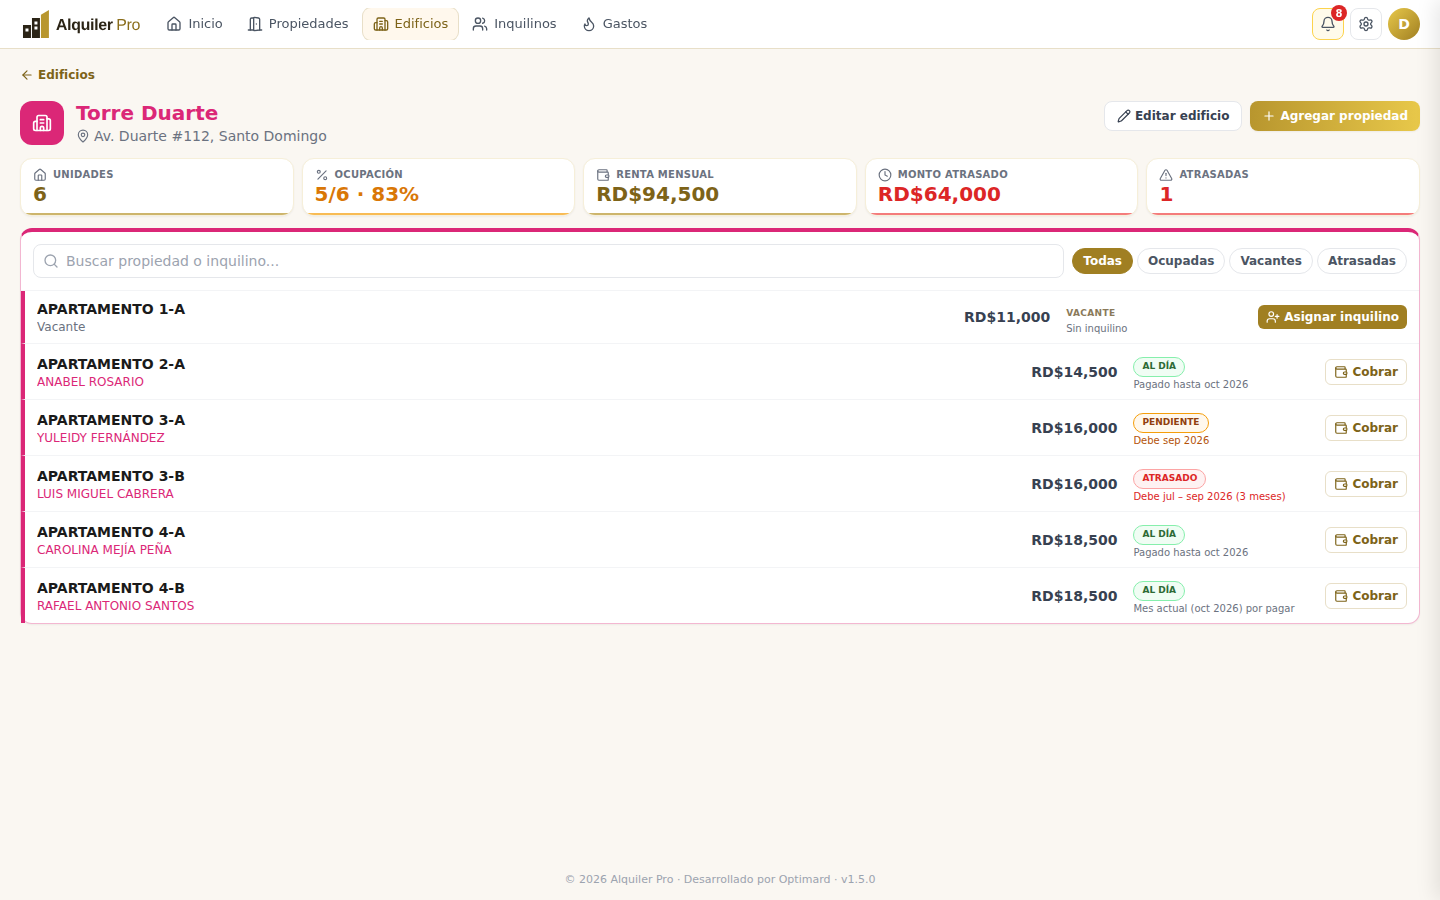
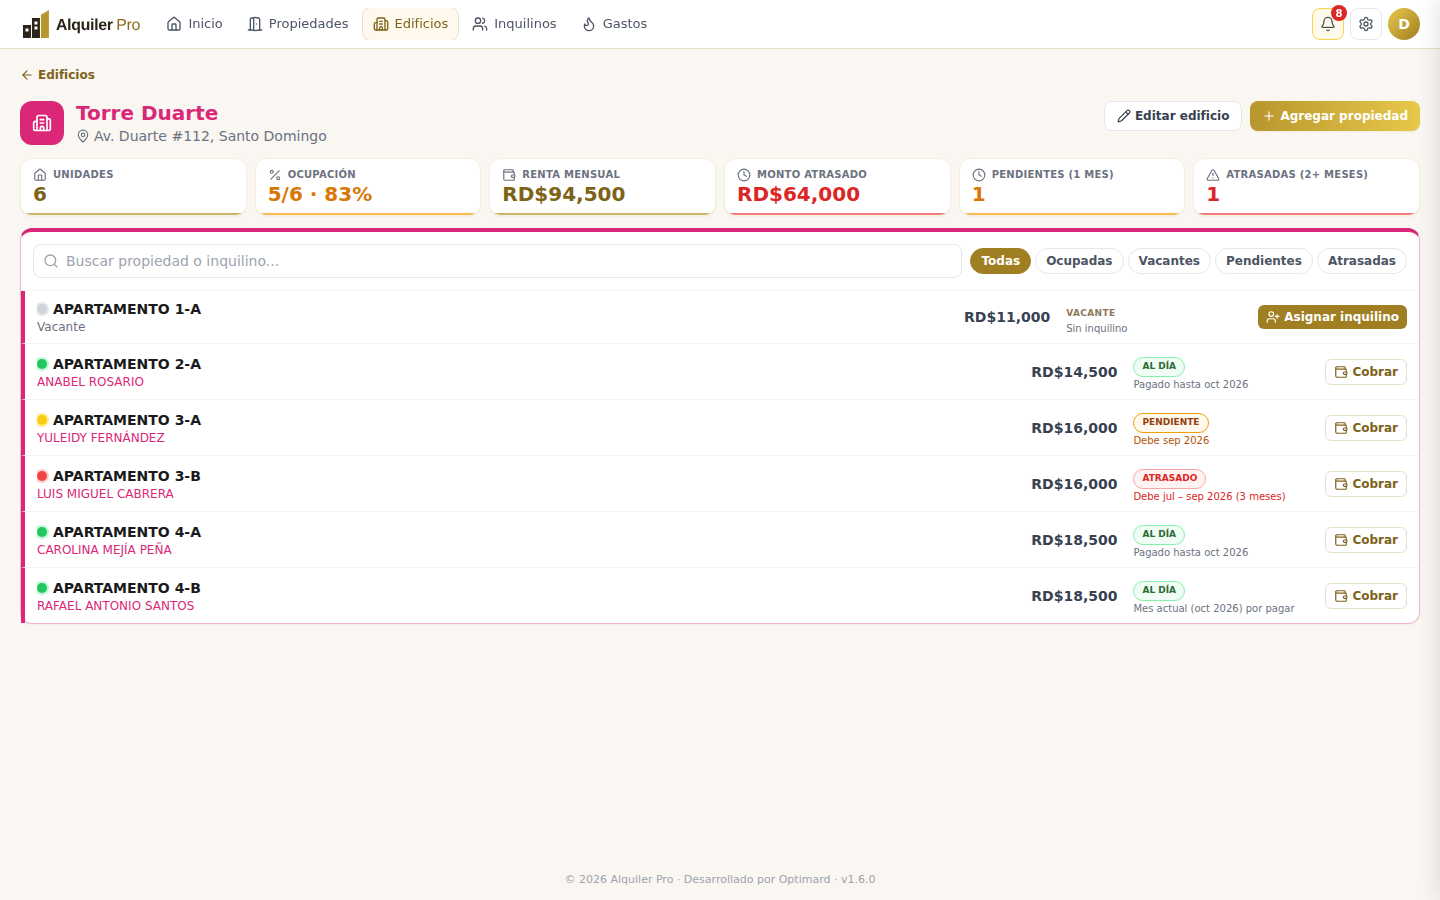
feat: semáforo amarillo/rojo y contadores Pendientes/Atrasadas separados en Edificios (v1.6.1)
Claude-Session: https://claude.ai/code/session_01G4pFfz9BLdfPbAZYdKBdLJ

Changed region(s): [[0.3438, 0.1867, 0.9375, 0.3111], [0.0312, 0.3111, 0.125, 0.6844], [0.1875, 0.1867, 0.2812, 0.2489]]

diff --git a/src/pages/Buildings.jsx b/src/pages/Buildings.jsx
@@ -7,7 +7,9 @@ import { getBuildingUnits, buildingStats, enrichUnit } from '../lib/buildingStat
 import { useBuildingColors } from '../lib/buildingColors'
 import ConfirmModal from '../components/Common/ConfirmModal'
 
-const DOT = { paid: 'bg-green-500', pending: 'bg-amber-400', late: 'bg-red-500', vacant: 'bg-gray-300' }
+// Traffic light: green = al día, yellow = 1 month owed, red = 2+ months owed, grey = vacant
+const DOT = { paid: 'bg-green-500 ring-green-200', pending: 'bg-yellow-400 ring-yellow-200', late: 'bg-red-500 ring-red-200', vacant: 'bg-gray-300 ring-gray-200' }
+const LEGEND = [['paid', 'Al día'], ['pending', 'Pendiente (1 mes)'], ['late', 'Atrasado (2+ meses)'], ['vacant', 'Vacante']]
 
 function Unit({ property, tenant, status, color }) {
     return (
@@ -17,7 +19,7 @@ function Unit({ property, tenant, status, color }) {
             style={color ? { borderColor: color.border, background: color.soft } : undefined}
             className="flex items-center gap-1.5 px-2 py-1 rounded-md border border-gray-200 bg-white text-[12px] hover:brightness-95 transition"
         >
-            <span className={`w-2 h-2 rounded-full shrink-0 ${DOT[status.key]}`} />
+            <span className={`w-2.5 h-2.5 rounded-full shrink-0 ring-2 ${DOT[status.key]}`} />
             <span className="font-medium truncate max-w-[10rem]">{property.name}</span>
         </Link>
     )
@@ -73,6 +75,12 @@ export default function Buildings() {
                 </button>
             </div>
 
+            <ul className="flex flex-wrap items-center gap-x-4 gap-y-1 text-[11px] text-gray-600" aria-label="Leyenda de estados">
+                {LEGEND.map(([key, label]) => (
+                    <li key={key} className="flex items-center gap-1.5"><span className={`w-2.5 h-2.5 rounded-full ring-2 ${DOT[key]}`} />{label}</li>
+                ))}
+            </ul>
+
             {!buildingsAvailable && (
                 <div className="flex items-start gap-2 p-3 rounded-lg bg-amber-50 border border-amber-200 text-sm text-amber-800">
                     <AlertTriangle className="w-4 h-4 mt-0.5 shrink-0" />
@@ -89,7 +97,7 @@ export default function Buildings() {
             )}
 
             <div className="grid grid-cols-1 xl:grid-cols-2 gap-3">
-                {rows.withBuilding.map(({ building, units, total, occupied, rent, late }) => (
+                {rows.withBuilding.map(({ building, units, total, occupied, rent, pending, late }) => (
                     <section key={building.id} className="bg-white rounded-xl border border-brand-200 shadow-sm p-3"
                         style={{ borderColor: colors[building.id].border, borderTop: `4px solid ${colors[building.id].solid}` }}>
                         <div className="flex items-start gap-3">
@@ -112,11 +120,11 @@ export default function Buildings() {
                                 className="p-1.5 rounded-md border border-red-100 text-red-500 hover:bg-red-50"><Trash2 className="w-4 h-4" /></button>
                         </div>
 
-                        <dl className="grid grid-cols-4 gap-2 mt-3 text-center">
-                            {[['Unidades', total], ['Ocupadas', `${occupied}/${total}`], ['Renta mensual', formatCurrency(rent)], ['Atrasadas', late]].map(([label, value]) => (
+                        <dl className="grid grid-cols-3 sm:grid-cols-5 gap-2 mt-3 text-center">
+                            {[['Unidades', total], ['Ocupadas', `${occupied}/${total}`], ['Renta mensual', formatCurrency(rent)], ['Pendientes', pending], ['Atrasadas', late]].map(([label, value]) => (
                                 <div key={label} className="rounded-lg px-1 py-1.5" style={{ background: colors[building.id].soft }}>
                                     <dt className="text-[9px] font-bold uppercase tracking-wide text-gray-500">{label}</dt>
-                                    <dd className={`text-[13px] font-bold leading-tight ${label === 'Atrasadas' && late > 0 ? 'text-red-600' : 'text-ink'}`}>{value}</dd>
+                                    <dd className={`text-[13px] font-bold leading-tight ${label === 'Atrasadas' && late > 0 ? 'text-red-600' : label === 'Pendientes' && pending > 0 ? 'text-yellow-600' : 'text-ink'}`}>{value}</dd>
                                 </div>
                             ))}
                         </dl>

diff --git a/src/pages/BuildingDetail.jsx b/src/pages/BuildingDetail.jsx
@@ -9,10 +9,13 @@ import StatusPill from '../components/Dashboard/StatusPill'
 import { useBuildingColors } from '../lib/buildingColors'
 import Kpi from '../components/Common/Kpi'
 
+const DOT = { paid: 'bg-green-500 ring-green-200', pending: 'bg-yellow-400 ring-yellow-200', late: 'bg-red-500 ring-red-200', vacant: 'bg-gray-300 ring-gray-200' }
+
 const FILTERS = [
     ['all', 'Todas'],
     ['occupied', 'Ocupadas'],
     ['vacant', 'Vacantes'],
+    ['pending', 'Pendientes'],
     ['late', 'Atrasadas']
 ]
 
@@ -36,6 +39,7 @@ export default function BuildingDetail() {
         return units.filter(u => {
             if (filter === 'occupied' && !u.tenant) return false
             if (filter === 'vacant' && u.tenant) return false
+            if (filter === 'pending' && u.status.key !== 'pending') return false
             if (filter === 'late' && u.status.key !== 'late') return false
             const hay = normalizeText(`${u.property.name} ${u.property.unit_number || ''} ${u.tenant?.name || ''}`)
             return words.every(w => hay.includes(w))
@@ -80,12 +84,13 @@ export default function BuildingDetail() {
                 </div>
             </div>
 
-            <div className="grid grid-cols-2 md:grid-cols-5 gap-2" style={{ '--bcolor': color.solid }}>
+            <div className="grid grid-cols-2 md:grid-cols-6 gap-2" style={{ '--bcolor': color.solid }}>
                 <Kpi icon={HomeIcon} label="Unidades" value={stats.total} />
                 <Kpi icon={Percent} label="Ocupación" value={`${stats.occupied}/${stats.total} · ${stats.occupancy}%`} tone={stats.vacant > 0 ? 'amber' : 'green'} />
                 <Kpi icon={Wallet} label="Renta mensual" value={formatCurrency(stats.rent)} />
                 <Kpi icon={Clock} label="Monto atrasado" value={formatCurrency(stats.owed)} tone={stats.owed > 0 ? 'red' : 'green'} />
-                <Kpi icon={AlertTriangle} label="Atrasadas" value={stats.late} tone={stats.late > 0 ? 'red' : 'green'} />
+                <Kpi icon={Clock} label="Pendientes (1 mes)" value={stats.pending} tone={stats.pending > 0 ? 'amber' : 'green'} />
+                <Kpi icon={AlertTriangle} label="Atrasadas (2+ meses)" value={stats.late} tone={stats.late > 0 ? 'red' : 'green'} />
             </div>
 
             <section className="bg-white rounded-xl border border-brand-200 shadow-sm" style={{ borderColor: color.border, borderTop: `4px solid ${color.solid}` }}>
@@ -117,7 +122,9 @@ export default function BuildingDetail() {
                         {shown.map(({ property, tenant, status }) => (
                             <li key={property.id} className="flex flex-wrap items-center gap-x-4 gap-y-1 px-3 py-2 border-l-4" style={{ borderLeftColor: color.solid }}>
                                 <div className="min-w-0 flex-1 basis-48">
-                                    <Link to={`/propiedades?p=${property.id}`} className="text-sm font-semibold text-ink hover:text-brand-700 truncate block">{property.name}</Link>
+                                    <Link to={`/propiedades?p=${property.id}`} className="flex items-center gap-1.5 text-sm font-semibold text-ink hover:text-brand-700 truncate">
+                                        <span title={status.detail} className={`w-2.5 h-2.5 rounded-full shrink-0 ring-2 ${DOT[status.key]}`} />{property.name}
+                                    </Link>
                                     <p className="text-xs text-gray-500 truncate" style={tenant ? { color: color.text } : undefined}>{tenant ? tenant.name : 'Vacante'}{property.unit_number ? ` · ${property.unit_number}` : ''}</p>
                                 </div>
                                 <span className="text-sm font-semibold text-gray-700 w-28 text-right">{formatCurrency(property.monthly_rent)}</span>

diff --git a/src/components/Layout/AppLayout.jsx b/src/components/Layout/AppLayout.jsx
@@ -14,7 +14,7 @@ export default function AppLayout() {
                     <ErrorBoundary key={location.pathname}><Outlet /></ErrorBoundary>
                 </main>
                 <footer className="text-center text-[11px] text-gray-400 py-3">
-                    &copy; {new Date().getFullYear()} Alquiler Pro · Desarrollado por Optimard · v1.6.0
+                    &copy; {new Date().getFullYear()} Alquiler Pro · Desarrollado por Optimard · v1.6.1
                 </footer>
             </div>
         </AppProvider>

diff --git a/src/lib/buildingStats.js b/src/lib/buildingStats.js
@@ -24,6 +24,7 @@ export function buildingStats(units) {
         vacant: units.length - occupied,
         occupancy: units.length ? Math.round((occupied / units.length) * 100) : 0,
         rent: units.reduce((s, u) => s + (parseFloat(u.property.monthly_rent) || 0), 0),
+        pending: units.filter(u => u.status.key === 'pending').length,
         late: units.filter(u => u.status.key === 'late').length,
         owed: units.reduce((s, u) => s + (u.status.owedAmount || 0), 0)
     }

diff --git a/docs/USER_GUIDE.md b/docs/USER_GUIDE.md
@@ -39,7 +39,7 @@ El **Inicio** reúne los indicadores del año, la lista de propiedades (agrupada
 - **Eliminar** un edificio: sus propiedades **no se borran**, quedan "Sin edificio".
 - **Asignar** propiedades sueltas a un edificio con el selector de la sección "Sin edificio".
 
-Cada edificio tiene **su propio color** (automático y fijo) en la vista de Edificios y en Propiedades, junto con sus unidades e inquilinos, y las unidades aparecen en orden alfabético. Cada tarjeta muestra unidades, ocupación, renta mensual total y cuántas están atrasadas. **Pulsa el nombre del edificio (o "Ver")** para abrir su detalle.
+Cada edificio tiene **su propio color** (automático y fijo) en la vista de Edificios y en Propiedades, junto con sus unidades e inquilinos, y las unidades aparecen en orden alfabético. Los círculos de cada unidad funcionan como semáforo: **verde** al día, **amarillo** 1 mes pendiente, **rojo** 2 o más meses y **gris** vacante; los contadores separan *Pendientes* y *Atrasadas*. Cada tarjeta muestra unidades, ocupación, renta mensual total y cuántas están atrasadas. **Pulsa el nombre del edificio (o "Ver")** para abrir su detalle.
 
 ### Detalle del edificio
 

diff --git a/docs/USER_GUIDE.en.md b/docs/USER_GUIDE.en.md
@@ -39,7 +39,7 @@ This guide walks through the app screen by screen. Screenshots use fictitious de
 - **Delete** a building: its properties are **not deleted**, they become "Sin edificio" (no building).
 - **Assign** loose properties to a building with the selector in the "Sin edificio" section.
 
-Each building has **its own colour** (automatic and fixed) in the Buildings view and in Properties, shared by its units and tenants, and units are listed alphabetically. Each card shows units, occupancy, total monthly rent and how many are late. **Click the building name (or "Ver")** to open its detail page.
+Each building has **its own colour** (automatic and fixed) in the Buildings view and in Properties, shared by its units and tenants, and units are listed alphabetically. The circle on each unit works as a traffic light: **green** up to date, **yellow** 1 month pending, **red** 2 or more months and **grey** vacant; the counters split *Pendientes* (pending) and *Atrasadas* (late). Each card shows units, occupancy, total monthly rent and how many are late. **Click the building name (or "Ver")** to open its detail page.
 
 ### Building detail
 

diff --git a/CHANGELOG.md b/CHANGELOG.md
@@ -5,6 +5,12 @@ Todos los cambios notables de este proyecto serán documentados en este archivo.
 El formato está basado en [Keep a Changelog](https://keepachangelog.com/es-ES/1.0.0/),
 y este proyecto adhiere a [Semantic Versioning](https://semver.org/lang/es/).
 
+## [1.6.1] - 2026-10-06
+
+### Cambiado
+- **Semáforo en Edificios**: punto verde (al día), **amarillo (1 mes pendiente)**, **rojo (2 o más meses)** y gris (vacante), con leyenda; el mismo punto en las filas del detalle del edificio.
+- El contador "Atrasadas" se separa en **Pendientes** (1 mes) y **Atrasadas** (2+ meses) en las tarjetas y en el detalle del edificio, donde además hay filtro "Pendientes".
+
 ## [1.6.0] - 2026-10-06
 
 ### Agregado
